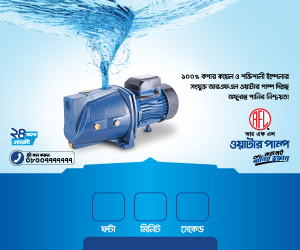
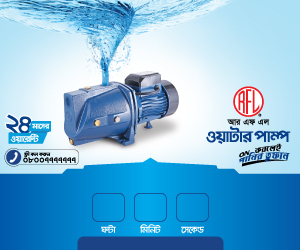
Add files via upload

diff --git a/index.html b/index.html
@@ -17,13 +17,18 @@
         .patch_countdown .minute{left: 43px;right: 0;top: 0;bottom: 0;width: 38px;height: 38px;}
         .patch_countdown .second{left: 84px;right: 0;top: 0;bottom: 0;width: 39px;height: 38px;}
         .patch_title{height: 21px;width: 142px;bottom: 60px;left: 0px; right: 0px; margin: 0 auto;}
-        .wrapper .product{right: 8px;top: 4px;height: 61px;width: 75px;}
-        .patch_note{height: 14px;width: 121px;left: 0px;margin: 0 auto;right: 0px;z-index: 1;bottom: 0px;}
+        .wrapper .product{right: 8px;top: 4px;height: 73px;width: 92px;}
+        .patch_note{height: 15px;width: 133px;left: 0px;margin: 0 auto;right: 0px;z-index: 1;bottom: 0px;}
+        @keyframes showZoomIn {
+        from {transform: scale3d(.5, .5, .5)}
+        to {transform: scale3d(1, 1, 1)}
+        }
         @keyframes pulse {
             0% {transform: scaleX(1)}
             50% {transform: scale3d(.95, .95, .95)}
             to {transform: scaleX(1)}
         }
+        .showZoomIn {animation-name: showZoomIn;animation-duration: .5s;animation-fill-mode: both}
         .pulse {animation-name: pulse;animation-duration: 2s;animation-iteration-count: infinite;}
     </style>
 </head>
@@ -32,9 +37,9 @@
         <div class="wrapper">
             <div class="patch_box absolute">
                 <div class="patch_countdown absolute"> </div>
-                <div class="patch_title absolute"><img src="assets/iftar.png" alt=""></div>
+                <div class="patch_title showZoomIn absolute"><img src="assets/iftar.png" alt=""></div>
                 <div class="product pulse absolute"><img src="assets/animation/mnemonic.png" alt=""></div>
-                <div class="patch_note absolute"><img src="assets/condition.png" alt=""></div>
+                <div class="patch_note showZoomIn absolute"><img src="assets/condition.png" alt=""></div>
             </div>
         </div>
     </a>
